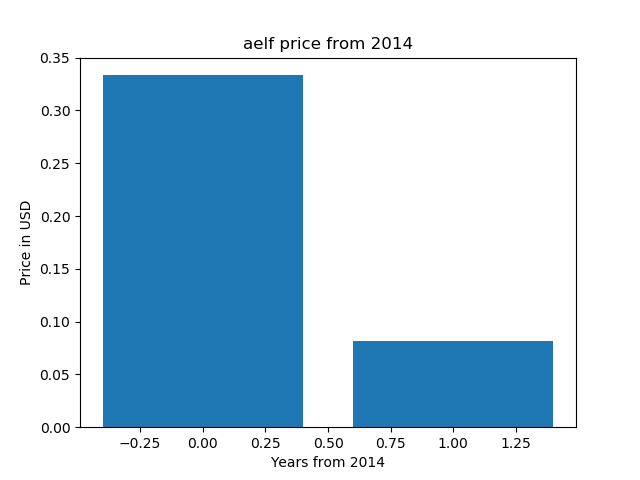
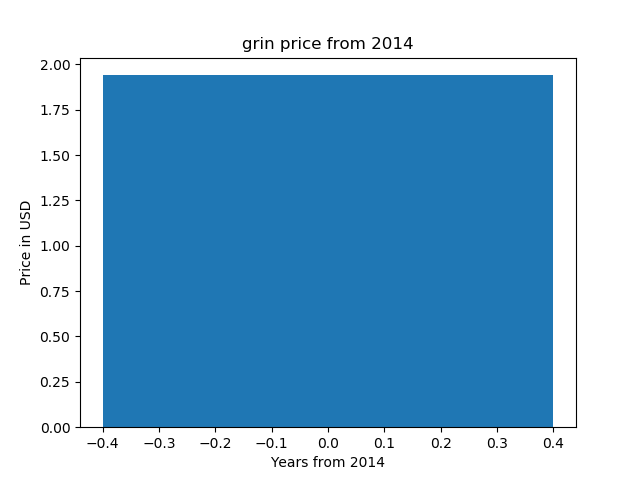
first commit

diff --git a/example.py b/example.py
@@ -10,7 +10,7 @@ from time import gmtime, strftime
 import matplotlib.pyplot as plt
 
 enddate = strftime("%Y%m%d", gmtime())
-r  = requests.get("https://coinmarketcap.com/currencies/aelf/historical-data/?start=20140101&end={0}".format(enddate))
+r  = requests.get("https://coinmarketcap.com/currencies/grin/historical-data/?start=20140101&end={0}".format(enddate))
 data = r.text
 
 soup = BeautifulSoup(data, "html.parser")
@@ -44,7 +44,7 @@ print(x)
 
 x = list(range(0, len(prices)))
 
-plt.title('aelf price from 2014')
+plt.title('grin price from 2014')
 plt.ylabel('Price in USD')
 plt.xlabel('Years from 2014')
 plt.bar(x, prices)

diff --git a/README.md b/README.md
@@ -1,6 +1,6 @@
-# aelf price chart 
+# grin price chart 
 
-aelf price chart (matplotlib, python)
+grin price chart (matplotlib, python)
 
 https://pythonprogramminglanguage.com
 
